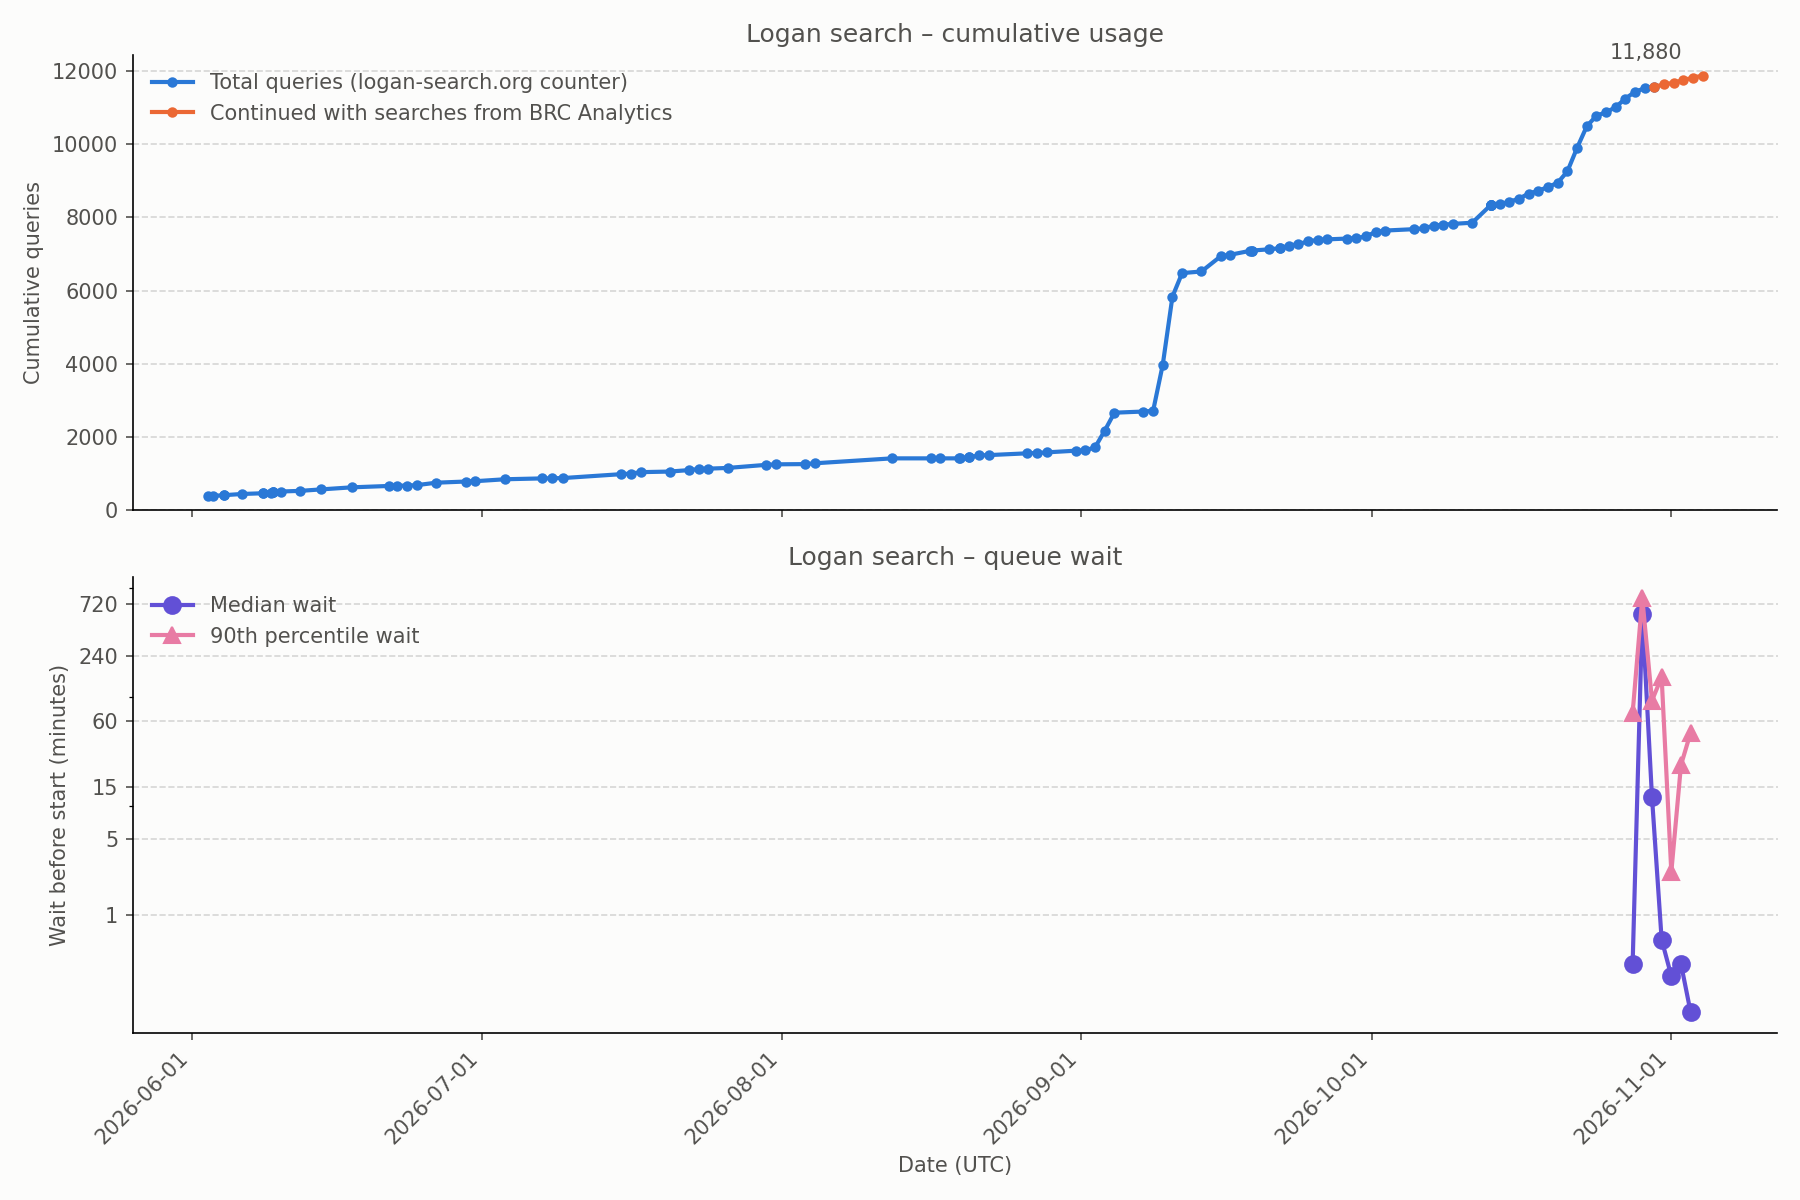
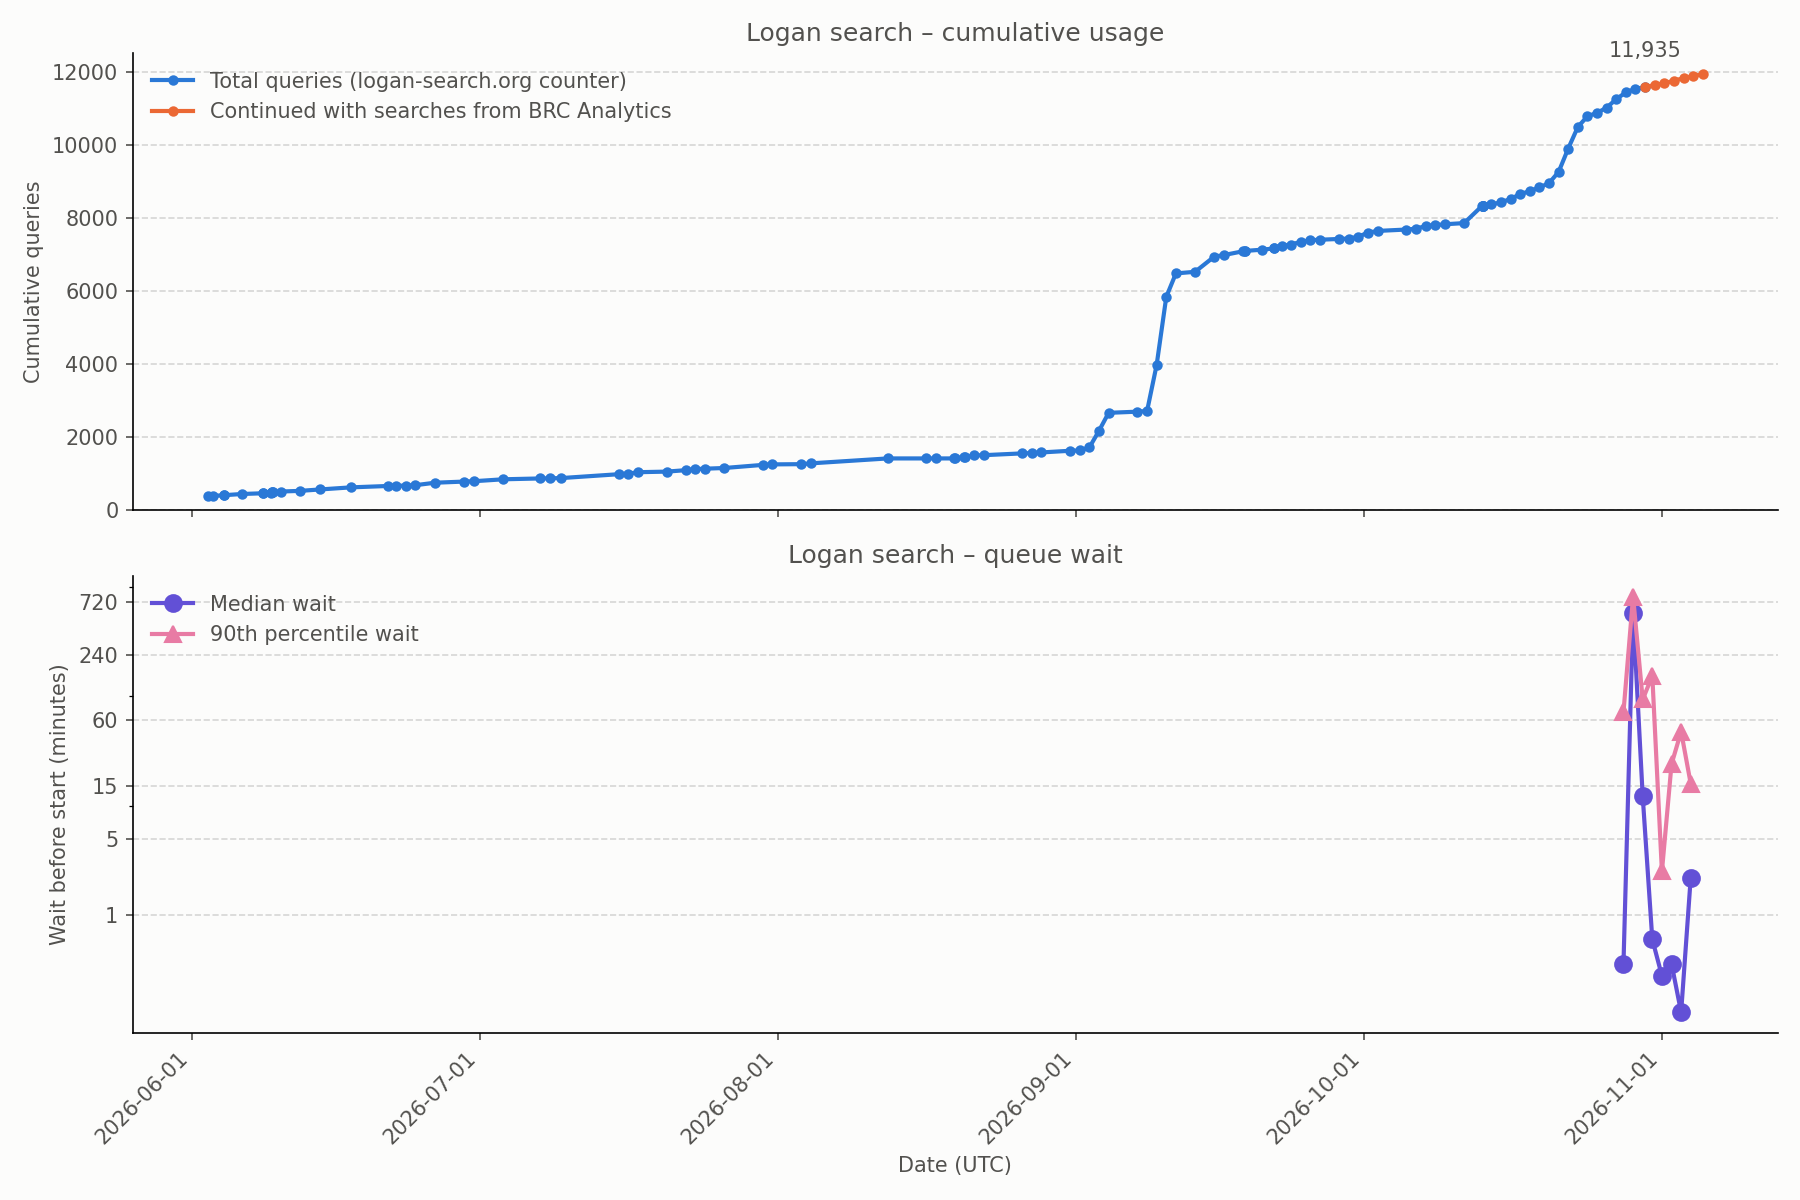
Update statistics 2026-11-05

diff --git a/README.md b/README.md
@@ -5,8 +5,8 @@ Usage statistics of [Logan Search](https://logan-search.org), updated once a day
 ## Yesterday
 
 <!-- daily-queries:start -->
-**Queries on 2026-11-03 (UTC): 68** on the backend (BRC Analytics history).
-The logan-search.org counter increased by 59 between 2026-11-03 06:00 and 2026-11-04 06:00 UTC.
+**Queries on 2026-11-04 (UTC): 55** on the backend (BRC Analytics history).
+The logan-search.org counter increased by 0 between 2026-11-04 06:00 and 2026-11-05 06:00 UTC.
 <!-- daily-queries:end -->
 
 ## Queries made on logan-search.org
